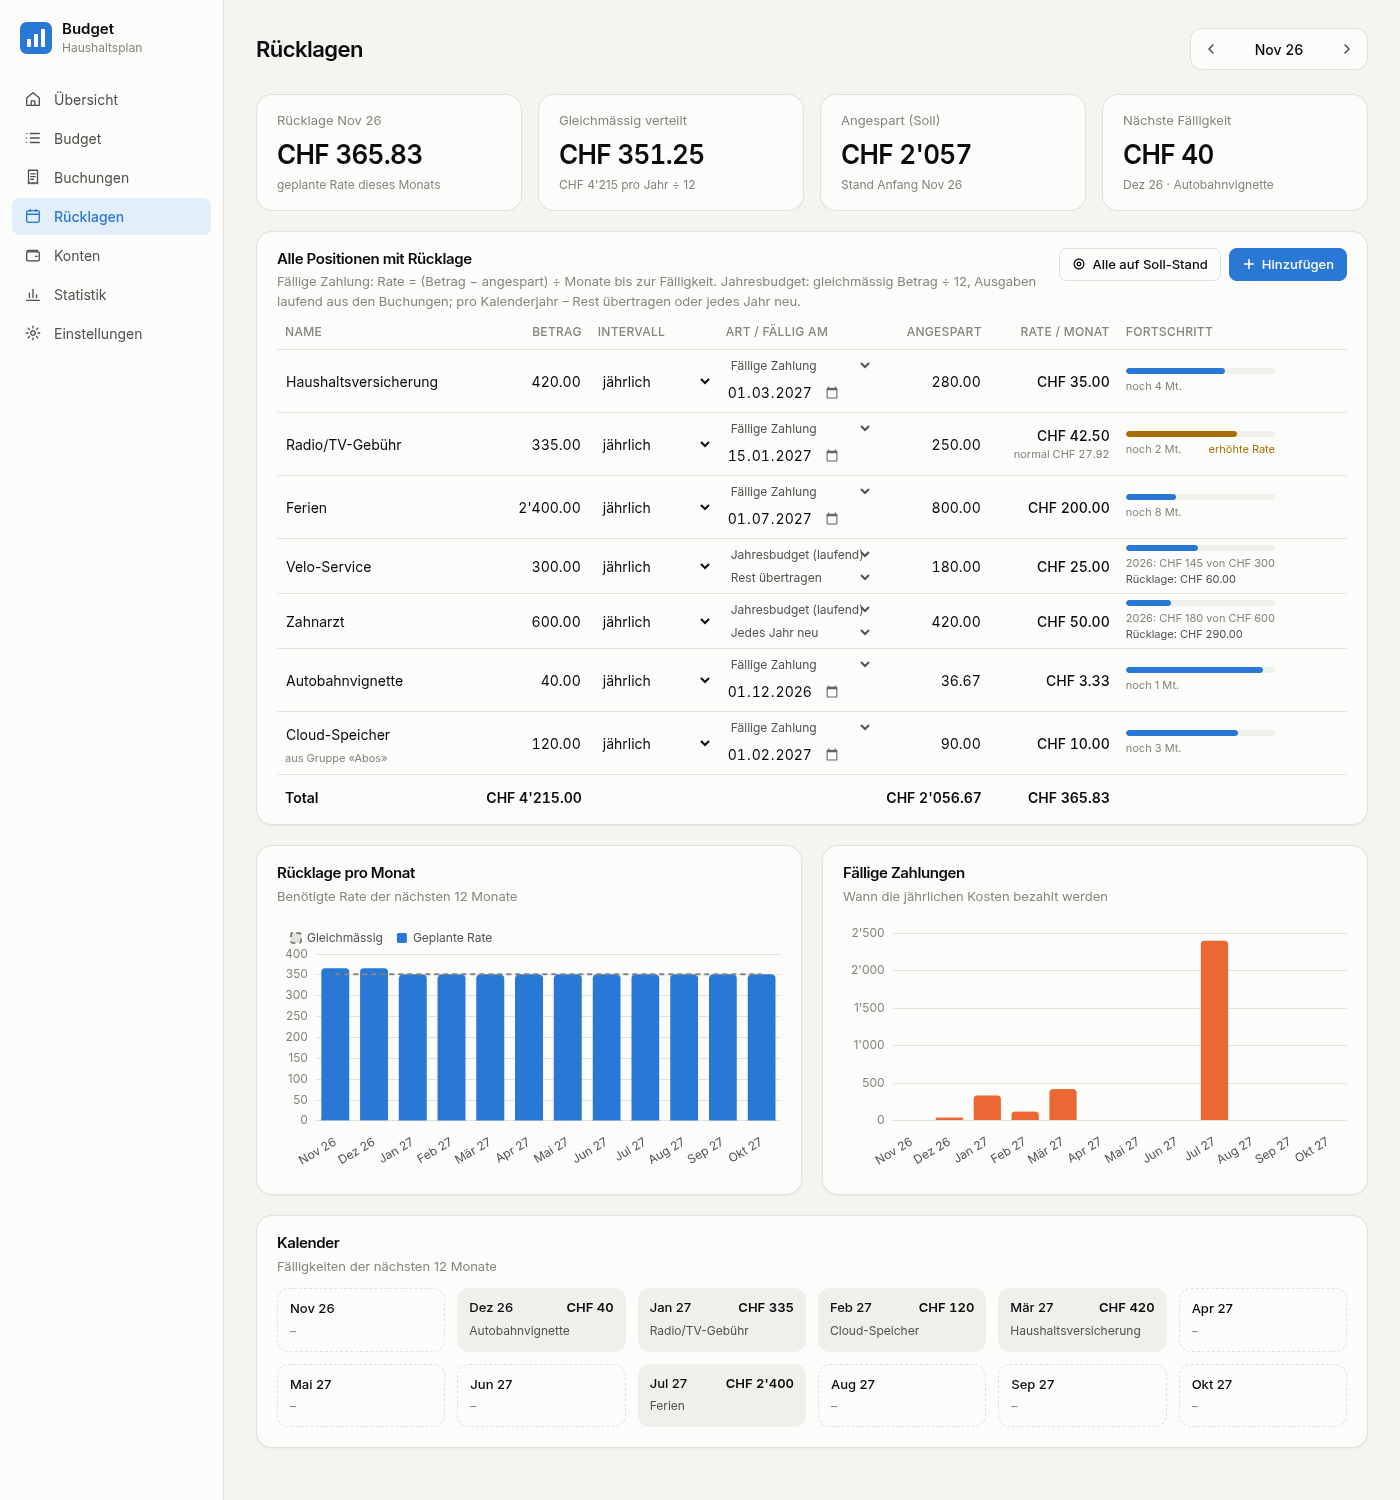
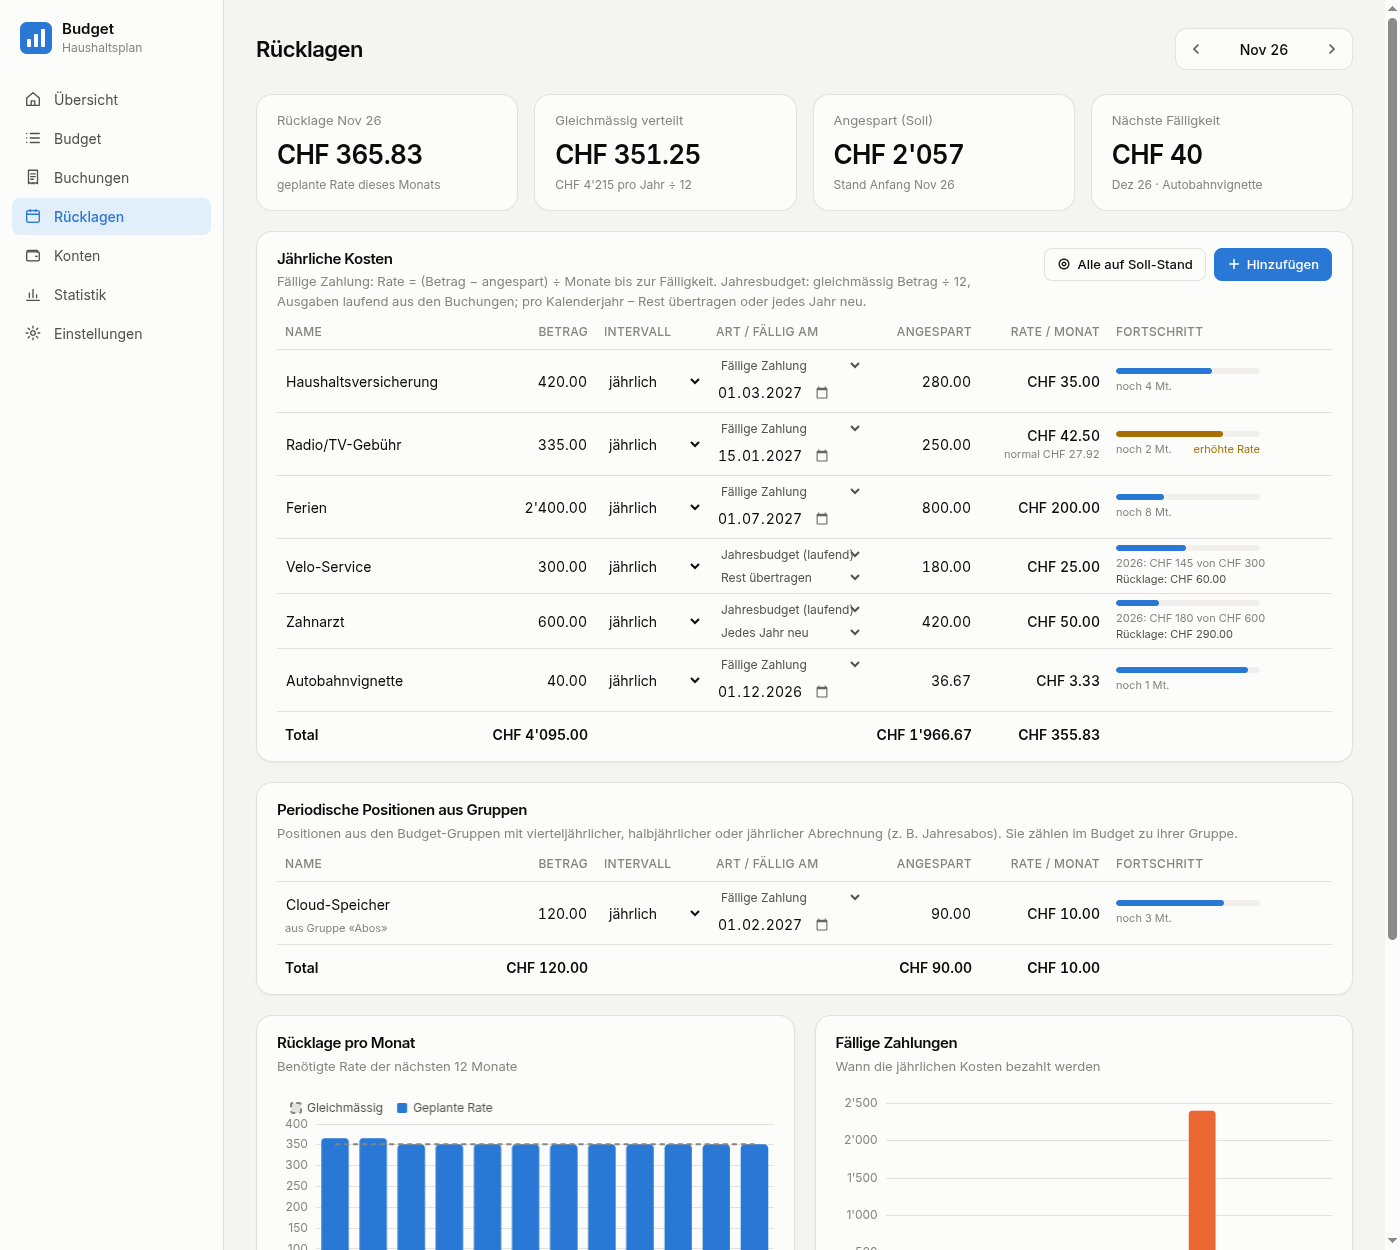
Rücklagen: periodische Gruppen-Positionen in eigener Tabelle
- Tabelle «Jährliche Kosten» und «Periodische Positionen aus Gruppen», je mit Total
- Feste Spaltenbreiten, damit beide Tabellen untereinander ausgerichtet sind
- Screenshot aktualisiert

Claude-Session: https://claude.ai/code/session_014SWt8rz6ebDX65zxpBfCue

diff --git a/src/components/Reserves.jsx b/src/components/Reserves.jsx
@@ -52,7 +52,7 @@ export default function Reserves({ data, update, month, theme, tx }) {
   const totalAmount = rows.reduce((s, x) => s + x.flat * 12, 0) // pro Jahr
   const nextPayout = forecast.find((f) => f.payout > 0)
 
-  const set = (idx, fn) => update((d) => fn(resolveRef(d, rows[idx].ref)))
+  const set = (ref, fn) => update((d) => fn(resolveRef(d, ref)))
   const add = () =>
     update((d) => {
       d.annual.push({ id: uid(), name: 'Neue jährliche Ausgabe', amount: 0, dueDate: `${addMonths(month, 12)}-01`, intervalMonths: 12, saved: 0, savedAsOf: month })
@@ -60,6 +60,153 @@ export default function Reserves({ data, update, month, theme, tx }) {
   const allOnTrack = () => {
     if (!confirm('Alle Positionen auf den Soll-Stand setzen (als ob bisher gleichmässig angespart wurde)?')) return
     update((d) => rows.forEach(({ ref }) => { const a = resolveRef(d, ref); a.saved = onTrackSaved(a, month); a.savedAsOf = month }))
+  }
+
+  const sums = (list) => ({
+    rate: list.reduce((a, x) => a + x.r.rate, 0),
+    saved: list.reduce((a, x) => a + (x.startSaved || 0), 0),
+    amount: list.reduce((a, x) => a + x.flat * 12, 0),
+  })
+
+  /** Tabelle für eine Liste von Rücklage-Positionen (jährliche Kosten oder periodische Gruppen-Positionen). */
+  const reserveTable = (list, { title, subtitle, actions, empty }) => {
+    const t = sums(list)
+    return (
+        <Card
+          title={title}
+          subtitle={subtitle}
+          actions={actions}
+          padded={false}
+        >
+          <div className="overflow-x-auto px-5 pb-4">
+            <table className="w-full min-w-[960px] table-fixed text-[14px]">
+              <thead>
+                <tr className="whitespace-nowrap border-b border-line text-left text-[12px] font-medium uppercase tracking-wide text-ink-3">
+                  <th className="px-2 pb-2 font-medium">Name</th>
+                  <th className="w-28 px-2 pb-2 text-right font-medium">Betrag</th>
+                  <th className="w-28 px-2 pb-2 font-medium">Intervall</th>
+                  <th className="w-40 px-2 pb-2 font-medium">Art / Fällig am</th>
+                  <th className="w-28 px-2 pb-2 text-right font-medium" title="Stand am Anfang des gewählten Monats">Angespart</th>
+                  <th className="w-32 px-2 pb-2 text-right font-medium">Rate / Monat</th>
+                  <th className="w-40 px-2 pb-2 font-medium">Fortschritt</th>
+                  <th className="w-16" />
+                </tr>
+              </thead>
+              <tbody>
+                {list.length === 0 && (
+                  <tr><td colSpan={8} className="px-2 py-6 text-center text-ink-3">{empty}</td></tr>
+                )}
+                {list.map(({ item, group, ref, r, flat, startSaved, elevated, budget, balance, spentYear, yearBudget, year }, idx) => (
+                  <tr key={item.id} className="group border-b border-line last:border-b-0">
+                    <td className="min-w-48 py-1 pr-2">
+                      <TextInput value={item.name} onChange={(v) => set(ref, (a) => { a.name = v })} />
+                      {group && <div className="px-2 text-[11px] text-ink-3">aus Gruppe «{group}»</div>}
+                      {!budget && <PaidHint item={item} paid={paidMap[item.id] || 0} startSaved={startSaved} month={month} onSet={(fn) => set(ref, fn)} />}
+                    </td>
+                    <td className="w-28 py-1">
+                      <AmountInput value={item.amount} onChange={(v) => set(ref, (a) => { a.amount = v })} />
+                    </td>
+                    <td className="w-32 py-1 px-1">
+                      <select
+                        value={item.intervalMonths}
+                        onChange={(e) => { const v = Number(e.target.value); set(ref, (a) => (group && v === 1 ? makeMonthly(a) : (a.intervalMonths = v))) }}
+                        className="w-full rounded-md border border-transparent bg-transparent px-1 py-1 outline-none hover:border-line focus:border-accent"
+                      >
+                        {INTERVALS.map(([v, l]) => <option key={v} value={v}>{l}</option>)}
+                      </select>
+                    </td>
+                    <td className="w-40 py-1 px-1">
+                      <select
+                        value={item.mode || 'due'}
+                        onChange={(e) => set(ref, (a) => { if (e.target.value === 'budget') { a.mode = 'budget'; delete a.placeholder } else delete a.mode })}
+                        className="w-full rounded-md border border-transparent bg-transparent px-1 py-0.5 text-[12px] text-ink-2 outline-none hover:border-line focus:border-accent"
+                      >
+                        <option value="due">Fällige Zahlung</option>
+                        <option value="budget">Jahresbudget (laufend)</option>
+                      </select>
+                      {budget && (
+                        <select
+                          value={item.carry === 'reset' ? 'reset' : 'carry'}
+                          onChange={(e) => set(ref, (a) => { if (e.target.value === 'reset') a.carry = 'reset'; else delete a.carry })}
+                          className="w-full rounded-md border border-transparent bg-transparent px-1 py-0.5 text-[12px] text-ink-2 outline-none hover:border-line focus:border-accent"
+                          title="Was passiert mit dem nicht ausgegebenen Rest am Ende des Kalenderjahres?"
+                        >
+                          <option value="carry">Rest übertragen</option>
+                          <option value="reset">Jedes Jahr neu</option>
+                        </select>
+                      )}
+                      {!budget && <div className="flex items-center gap-1.5">
+                        <input
+                          type="date"
+                          value={item.dueDate}
+                          onChange={(e) => e.target.value && set(ref, (a) => { a.dueDate = e.target.value; delete a.placeholder })}
+                          className="num w-[124px] rounded-md border border-transparent bg-transparent px-1 py-1 outline-none hover:border-line focus:border-accent"
+                        />
+                        {item.placeholder && <span className="text-warn" title="Platzhalter – bitte echtes Datum eintragen">{Icon.warn}</span>}
+                      </div>}
+                    </td>
+                    <td className="w-28 py-1">
+                      {startSaved === null ? (
+                        <div className="px-2 text-right text-ink-3" title="Vor dem Startpunkt der Planung">–</div>
+                      ) : (
+                        <AmountInput value={Math.round(startSaved * 100) / 100} onChange={(v) => set(ref, (a) => { a.saved = v; a.savedAsOf = month })} />
+                      )}
+                    </td>
+                    <td className="w-32 px-2 py-1 text-right">
+                      <div className="num font-medium">{fmtCHF(r.rate)}</div>
+                      {Math.abs(r.rate - flat) > 0.01 && <div className="num text-[11px] text-ink-3">normal {fmtCHF(flat)}</div>}
+                    </td>
+                    <td className="px-2 py-1">
+                      {budget ? (
+                        <div title={`Ausgaben ${year}: ${fmtCHF(spentYear)} von ${fmtCHF(yearBudget)}`}>
+                          <Progress value={yearBudget ? spentYear / yearBudget : 0} tone={spentYear > yearBudget ? 'warn' : 'accent'} />
+                          <div className="mt-1 whitespace-nowrap text-[11px] text-ink-3">{year}: {fmtCHF0(spentYear)} von {fmtCHF0(yearBudget)}</div>
+                          {balance !== null && <div className={`whitespace-nowrap text-[11px] ${balance < 0 ? 'text-bad' : 'text-ink-2'}`}>Rücklage: {fmtCHF(balance)}</div>}
+                        </div>
+                      ) : r.payout > 0 ? (
+                        <Badge tone="accent">Fällig: {fmtCHF0(r.payout)} wird bezahlt</Badge>
+                      ) : (
+                        <>
+                          <Progress value={item.amount ? (startSaved ?? 0) / item.amount : 0} tone={elevated ? 'warn' : 'accent'} />
+                          <div className="mt-1 flex justify-between gap-1 whitespace-nowrap text-[11px] text-ink-3">
+                            <span>{r.left != null ? `noch ${r.left} Mt.` : ''}</span>
+                            {elevated && <span className="text-warn">erhöhte Rate</span>}
+                          </div>
+                        </>
+                      )}
+                    </td>
+                    <td className="py-1 text-right">
+                      <div className="flex justify-end opacity-0 transition group-hover:opacity-100 group-focus-within:opacity-100">
+                        <IconButton title="Auf Soll-Stand setzen" onClick={() => set(ref, (a) => { a.saved = onTrackSaved(a, month); a.savedAsOf = month })}>{Icon.target}</IconButton>
+                        <IconButton title="Löschen" className="hover:text-bad" onClick={() =>
+                          confirmAndDelete({
+                            title: `«${item.name}» löschen?`,
+                            message: group ? `Die Position wird aus der Gruppe «${group}» entfernt – in allen Monaten.` : 'Die Rücklage wird entfernt – in allen Monaten.',
+                            ids: [item.id],
+                            update,
+                            tx,
+                            mutate: (d) => removeRef(d, ref),
+                          })
+                        }>{Icon.trash}</IconButton>
+                      </div>
+                    </td>
+                  </tr>
+                ))}
+              </tbody>
+              <tfoot>
+                <tr className="border-t border-line font-semibold">
+                  <td className="px-2 pt-3">Total</td>
+                  <td className="num px-2 pt-3 text-right">{fmtCHF(t.amount)}</td>
+                  <td colSpan={2} />
+                  <td className="num px-2 pt-3 text-right">{fmtCHF(t.saved)}</td>
+                  <td className="num px-2 pt-3 text-right">{fmtCHF(t.rate)}</td>
+                  <td colSpan={2} />
+                </tr>
+              </tfoot>
+            </table>
+          </div>
+        </Card>
+    )
   }
 
   const c = readColors()
@@ -80,142 +227,29 @@ export default function Reserves({ data, update, month, theme, tx }) {
         />
       </div>
 
-      <Card
-        title="Alle Positionen mit Rücklage"
-        subtitle="Fällige Zahlung: Rate = (Betrag − angespart) ÷ Monate bis zur Fälligkeit. Jahresbudget: gleichmässig Betrag ÷ 12, Ausgaben laufend aus den Buchungen; pro Kalenderjahr – Rest übertragen oder jedes Jahr neu."
-        actions={
-          <>
-            <Button onClick={allOnTrack} title="Angespart-Werte auf gleichmässigen Verlauf setzen">{Icon.target} Alle auf Soll-Stand</Button>
-            <Button variant="primary" onClick={add}>{Icon.plus} Hinzufügen</Button>
-          </>
-        }
-        padded={false}
-      >
-        <div className="overflow-x-auto px-5 pb-4">
-          <table className="w-full min-w-[900px] text-[14px]">
-            <thead>
-              <tr className="whitespace-nowrap border-b border-line text-left text-[12px] font-medium uppercase tracking-wide text-ink-3">
-                <th className="px-2 pb-2 font-medium">Name</th>
-                <th className="px-2 pb-2 text-right font-medium">Betrag</th>
-                <th className="px-2 pb-2 font-medium">Intervall</th>
-                <th className="px-2 pb-2 font-medium">Art / Fällig am</th>
-                <th className="px-2 pb-2 text-right font-medium" title="Stand am Anfang des gewählten Monats">Angespart</th>
-                <th className="px-2 pb-2 text-right font-medium">Rate / Monat</th>
-                <th className="w-32 px-2 pb-2 font-medium">Fortschritt</th>
-                <th className="w-16" />
-              </tr>
-            </thead>
-            <tbody>
-              {rows.map(({ item, group, ref, r, flat, startSaved, elevated, budget, balance, spentYear, yearBudget, year }, idx) => (
-                <tr key={item.id} className="group border-b border-line last:border-b-0">
-                  <td className="min-w-48 py-1 pr-2">
-                    <TextInput value={item.name} onChange={(v) => set(idx, (a) => { a.name = v })} />
-                    {group && <div className="px-2 text-[11px] text-ink-3">aus Gruppe «{group}»</div>}
-                    {!budget && <PaidHint item={item} paid={paidMap[item.id] || 0} startSaved={startSaved} month={month} onSet={(fn) => set(idx, fn)} />}
-                  </td>
-                  <td className="w-28 py-1">
-                    <AmountInput value={item.amount} onChange={(v) => set(idx, (a) => { a.amount = v })} />
-                  </td>
-                  <td className="w-32 py-1 px-1">
-                    <select
-                      value={item.intervalMonths}
-                      onChange={(e) => { const v = Number(e.target.value); set(idx, (a) => (group && v === 1 ? makeMonthly(a) : (a.intervalMonths = v))) }}
-                      className="w-full rounded-md border border-transparent bg-transparent px-1 py-1 outline-none hover:border-line focus:border-accent"
-                    >
-                      {INTERVALS.map(([v, l]) => <option key={v} value={v}>{l}</option>)}
-                    </select>
-                  </td>
-                  <td className="w-40 py-1 px-1">
-                    <select
-                      value={item.mode || 'due'}
-                      onChange={(e) => set(idx, (a) => { if (e.target.value === 'budget') { a.mode = 'budget'; delete a.placeholder } else delete a.mode })}
-                      className="w-full rounded-md border border-transparent bg-transparent px-1 py-0.5 text-[12px] text-ink-2 outline-none hover:border-line focus:border-accent"
-                    >
-                      <option value="due">Fällige Zahlung</option>
-                      <option value="budget">Jahresbudget (laufend)</option>
-                    </select>
-                    {budget && (
-                      <select
-                        value={item.carry === 'reset' ? 'reset' : 'carry'}
-                        onChange={(e) => set(idx, (a) => { if (e.target.value === 'reset') a.carry = 'reset'; else delete a.carry })}
-                        className="w-full rounded-md border border-transparent bg-transparent px-1 py-0.5 text-[12px] text-ink-2 outline-none hover:border-line focus:border-accent"
-                        title="Was passiert mit dem nicht ausgegebenen Rest am Ende des Kalenderjahres?"
-                      >
-                        <option value="carry">Rest übertragen</option>
-                        <option value="reset">Jedes Jahr neu</option>
-                      </select>
-                    )}
-                    {!budget && <div className="flex items-center gap-1.5">
-                      <input
-                        type="date"
-                        value={item.dueDate}
-                        onChange={(e) => e.target.value && set(idx, (a) => { a.dueDate = e.target.value; delete a.placeholder })}
-                        className="num w-[124px] rounded-md border border-transparent bg-transparent px-1 py-1 outline-none hover:border-line focus:border-accent"
-                      />
-                      {item.placeholder && <span className="text-warn" title="Platzhalter – bitte echtes Datum eintragen">{Icon.warn}</span>}
-                    </div>}
-                  </td>
-                  <td className="w-28 py-1">
-                    {startSaved === null ? (
-                      <div className="px-2 text-right text-ink-3" title="Vor dem Startpunkt der Planung">–</div>
-                    ) : (
-                      <AmountInput value={Math.round(startSaved * 100) / 100} onChange={(v) => set(idx, (a) => { a.saved = v; a.savedAsOf = month })} />
-                    )}
-                  </td>
-                  <td className="w-32 px-2 py-1 text-right">
-                    <div className="num font-medium">{fmtCHF(r.rate)}</div>
-                    {Math.abs(r.rate - flat) > 0.01 && <div className="num text-[11px] text-ink-3">normal {fmtCHF(flat)}</div>}
-                  </td>
-                  <td className="px-2 py-1">
-                    {budget ? (
-                      <div title={`Ausgaben ${year}: ${fmtCHF(spentYear)} von ${fmtCHF(yearBudget)}`}>
-                        <Progress value={yearBudget ? spentYear / yearBudget : 0} tone={spentYear > yearBudget ? 'warn' : 'accent'} />
-                        <div className="mt-1 whitespace-nowrap text-[11px] text-ink-3">{year}: {fmtCHF0(spentYear)} von {fmtCHF0(yearBudget)}</div>
-                        {balance !== null && <div className={`whitespace-nowrap text-[11px] ${balance < 0 ? 'text-bad' : 'text-ink-2'}`}>Rücklage: {fmtCHF(balance)}</div>}
-                      </div>
-                    ) : r.payout > 0 ? (
-                      <Badge tone="accent">Fällig: {fmtCHF0(r.payout)} wird bezahlt</Badge>
-                    ) : (
-                      <>
-                        <Progress value={item.amount ? (startSaved ?? 0) / item.amount : 0} tone={elevated ? 'warn' : 'accent'} />
-                        <div className="mt-1 flex justify-between gap-1 whitespace-nowrap text-[11px] text-ink-3">
-                          <span>{r.left != null ? `noch ${r.left} Mt.` : ''}</span>
-                          {elevated && <span className="text-warn">erhöhte Rate</span>}
-                        </div>
-                      </>
-                    )}
-                  </td>
-                  <td className="py-1 text-right">
-                    <div className="flex justify-end opacity-0 transition group-hover:opacity-100 group-focus-within:opacity-100">
-                      <IconButton title="Auf Soll-Stand setzen" onClick={() => set(idx, (a) => { a.saved = onTrackSaved(a, month); a.savedAsOf = month })}>{Icon.target}</IconButton>
-                      <IconButton title="Löschen" className="hover:text-bad" onClick={() =>
-                        confirmAndDelete({
-                          title: `«${item.name}» löschen?`,
-                          message: group ? `Die Position wird aus der Gruppe «${group}» entfernt – in allen Monaten.` : 'Die Rücklage wird entfernt – in allen Monaten.',
-                          ids: [item.id],
-                          update,
-                          tx,
-                          mutate: (d) => removeRef(d, ref),
-                        })
-                      }>{Icon.trash}</IconButton>
-                    </div>
-                  </td>
-                </tr>
-              ))}
-            </tbody>
-            <tfoot>
-              <tr className="border-t border-line font-semibold">
-                <td className="px-2 pt-3">Total</td>
-                <td className="num px-2 pt-3 text-right">{fmtCHF(totalAmount)}</td>
-                <td colSpan={2} />
-                <td className="num px-2 pt-3 text-right">{fmtCHF(totalSaved)}</td>
-                <td className="num px-2 pt-3 text-right">{fmtCHF(total)}</td>
-                <td colSpan={2} />
-              </tr>
-            </tfoot>
-          </table>
-        </div>
-      </Card>
+      {reserveTable(
+        rows.filter((x) => !x.group),
+        {
+          title: 'Jährliche Kosten',
+          subtitle: 'Fällige Zahlung: Rate = (Betrag − angespart) ÷ Monate bis zur Fälligkeit. Jahresbudget: gleichmässig Betrag ÷ 12, Ausgaben laufend aus den Buchungen; pro Kalenderjahr – Rest übertragen oder jedes Jahr neu.',
+          actions: (
+            <>
+              <Button onClick={allOnTrack} title="Angespart-Werte auf gleichmässigen Verlauf setzen">{Icon.target} Alle auf Soll-Stand</Button>
+              <Button variant="primary" onClick={add}>{Icon.plus} Hinzufügen</Button>
+            </>
+          ),
+          empty: 'Noch keine jährlichen Kosten erfasst.',
+        },
+      )}
+
+      {rows.some((x) => x.group) &&
+        reserveTable(
+          rows.filter((x) => x.group).sort((a, b) => a.group.localeCompare(b.group)),
+          {
+            title: 'Periodische Positionen aus Gruppen',
+            subtitle: 'Positionen aus den Budget-Gruppen mit vierteljährlicher, halbjährlicher oder jährlicher Abrechnung (z. B. Jahresabos). Sie zählen im Budget zu ihrer Gruppe.',
+          },
+        )}
 
       <div className="grid gap-5 lg:grid-cols-2">
         <Card title="Rücklage pro Monat" subtitle="Benötigte Rate der nächsten 12 Monate">
